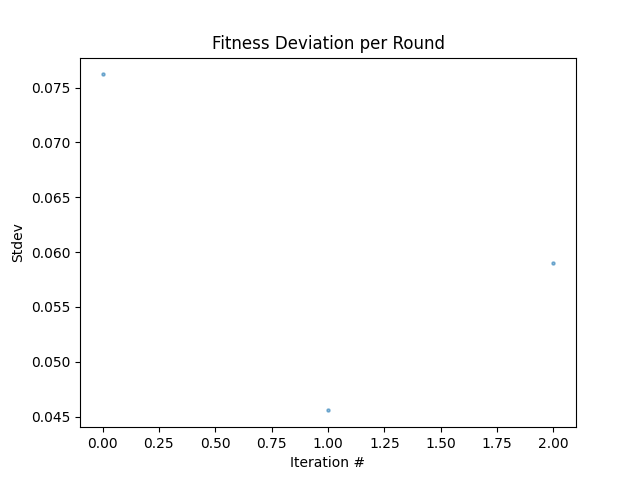
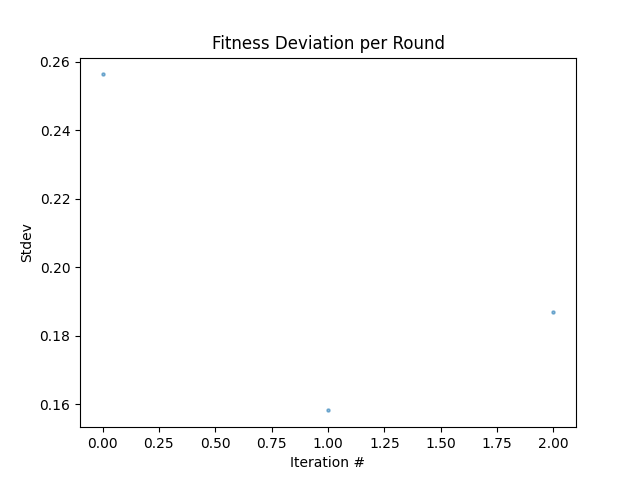
rescale fitness back to 1

diff --git a/source/utility/args_parser.py b/source/utility/args_parser.py
@@ -42,13 +42,13 @@ def model_run_args() -> Namespace:
     
     lambda_parameters = parser.add_argument_group('lambda parameters')
 
-    lambda_parameters.add_argument('--coverage_lambda', type=float, default=1, 
+    lambda_parameters.add_argument('--coverage_lambda', type=float, default=0, 
                                    help="weight associated with coverage score (default: %(default)s)")
     lambda_parameters.add_argument('--ridership_density_lambda', type=float, default=1, 
                                    help="weight associated with ridership density score (default: %(default)s)")
     lambda_parameters.add_argument('--zone_lambda', type=float, default=1, 
                                    help="weight associated zone lambda score (default: %(default)s)")
-    lambda_parameters.add_argument('--extreme_trip_lambda', type=float, default=1, 
+    lambda_parameters.add_argument('--extreme_trip_lambda', type=float, default=-1, 
                                    help="weight associated extreme trip lambda score (default: %(default)s)")
 
 

diff --git a/source/genetic_algorithm/fitness_function.py b/source/genetic_algorithm/fitness_function.py
@@ -32,7 +32,7 @@ def evaluate_network_new(net: TransitNetwork, initial_metrics: NetworkMetrics, Z
     coverage_val = (net.coverage / initial_metrics.coverage) * params.COVERAGE_LAMBDA
     ridership_density_val = (net.ridership_density_score / initial_metrics.ridership_density_score) * params.RIDERSHIP_DENSITY_LAMBDA
     zone_score = ZoneEvaluator.evaluate_network(net) * params.ZONE_LAMBDA
-    extreme_trips = (-1)*(net.count_extreme_routes(params.MIN_NUM_STOPS, params.MAX_NUM_STOPS) / initial_metrics.extreme_routes) * params.EXTREME_TRIP_LAMBDA
+    extreme_trips = (net.count_extreme_routes(params.MIN_NUM_STOPS, params.MAX_NUM_STOPS) / initial_metrics.extreme_routes) * params.EXTREME_TRIP_LAMBDA
     fitness = (coverage_val + ridership_density_val + zone_score + extreme_trips)/(params.sum_of_fitness_coefficients())
 
     FitnessObj = Fitness(zone_val=zone_score, 

diff --git a/source/genetic_algorithm/params.py b/source/genetic_algorithm/params.py
@@ -103,7 +103,8 @@ def overwrite_lambdas(args: argparse.Namespace):
     RootLogger.log_info(f'Running model with ZONE_LAMBDA: {args.zone_lambda}')
     RootLogger.log_info(f'Running model with EXTREME_TRIP_LAMBDA: {args.extreme_trip_lambda}')
     
-    COVERAGE_LAMBDA = args.coverage_lambda
-    RIDERSHIP_DENSITY_LAMBDA = args.ridership_density_lambda
-    ZONE_LAMBDA = args.zone_lambda
-    EXTREME_TRIP_LAMBDA = args.extreme_trip_lambda
+    total = args.coverage_lambda + args.ridership_density_lambda + args.zone_lambda + args.extreme_trip_lambda
+    COVERAGE_LAMBDA = args.coverage_lambda / total 
+    RIDERSHIP_DENSITY_LAMBDA = args.ridership_density_lambda / total
+    ZONE_LAMBDA = args.zone_lambda / total
+    EXTREME_TRIP_LAMBDA = args.extreme_trip_lambda / total
